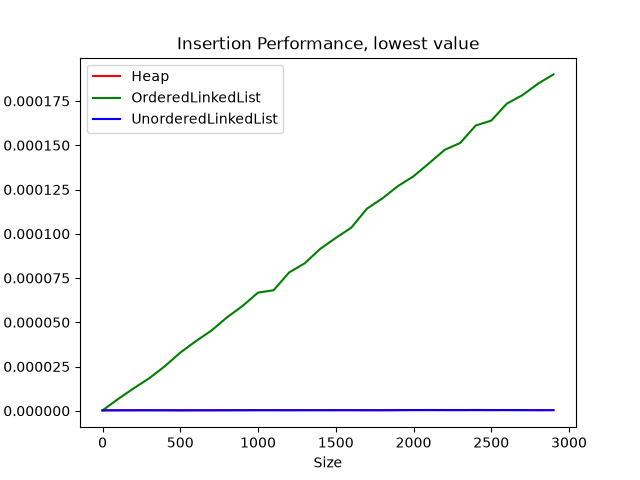
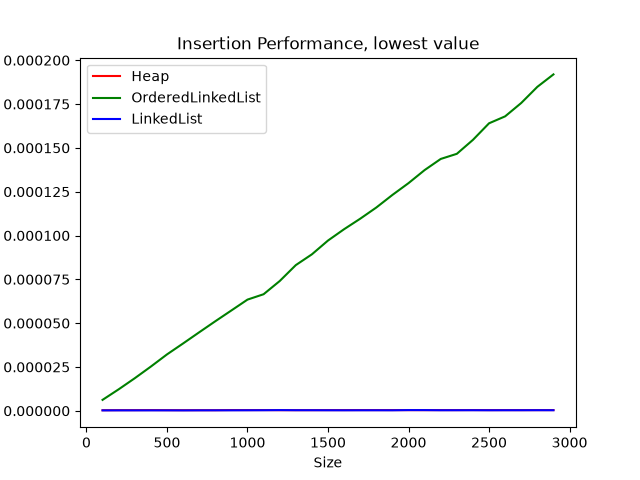
refactored insertion and remove_max test code

diff --git a/PicchioniEs1LabAlg.py b/PicchioniEs1LabAlg.py
@@ -377,30 +377,52 @@ class OrderedLinkedList:
         print(result)
 
 
-def measure_insert_time(data, step, elements, output, repeats, random_test, test_value):
-    for i in range(0, len(elements), step):
+def plot_graph(data_type, number_of_operation, time):
+    if data_type == 0:
+        label = "Heap"
+        color = "r"
+    elif data_type == 1:
+        label = "OrderedLinkedList"
+        color = "g"
+    else:
+        label = "LinkedList"
+        color = "b"
+    plt.plot(number_of_operation, time, color, label=label)
+    print("finished testing for " + label)
+
+
+def measure_insert_time(
+    data_type, number_of_operation, elements, time, repeats, random_test, test_value
+):
+    for i in number_of_operation:
         best = inf
         for _ in range(repeats):
-            test = data()
+            if data_type == 0:
+                prio_queue = Heap()
+            elif data_type == 1:
+                prio_queue = OrderedLinkedList()
+            else:
+                prio_queue = LinkedList()
             for e in elements[:i]:
-                test.insert(e)
+                prio_queue.insert(e)
+
             if random_test is True:
                 random_value = random.choice(range(test_value))
             else:
                 random_value = test_value
+
             start = timer()
-            test.insert(random_value)
+            prio_queue.insert(random_value)
             end = timer()
             best = min(best, end - start)
-        if i % 100 == 0:
-            print(i)
-        output.append(best)
+        time.append(best)
+    plot_graph(data_type, number_of_operation, time)
 
 
 def insert_test(test_type):
     number_of_elements = 3000
     step = 100
-    number_of_operation = range(0, number_of_elements, step)
+    number_of_operation = range(step, number_of_elements, step)
     interval_end = 3000
     number_of_repeats = 10
     inputs = random.choices(range(interval_end), k=number_of_elements)
@@ -423,83 +445,126 @@ def insert_test(test_type):
     else:
         print("testing insertion of a random value")
 
-    time = []
-    print("testing Heap")
-    measure_insert_time(
-        Heap, step, inputs, time, number_of_repeats, random_test, test_value
-    )
-    plt.plot(number_of_operation, time, "r", label="Heap")
-    print("finished testing Heap")
-
-    time = []
-    print("testing OrderedLinkedList")
-    measure_insert_time(
-        OrderedLinkedList,
-        step,
-        inputs,
-        time,
-        number_of_repeats,
-        random_test,
-        test_value,
-    )
-    plt.plot(number_of_operation, time, "g", label="OrderedLinkedList")
-    print("finished testing OrderedLinkedList")
-
-    time = []
-    print("testing LinkedList")
-    measure_insert_time(
-        LinkedList, step, inputs, time, number_of_repeats, random_test, test_value
-    )
-    plt.plot(number_of_operation, time, "b", label="UnorderedLinkedList")
+    for i in range(3):
+        time = []
+        measure_insert_time(
+            i,
+            number_of_operation,
+            inputs,
+            time,
+            number_of_repeats,
+            random_test,
+            test_value,
+        )
+    # print("testing Heap")
+    # measure_insert_time(
+    #     1, step, inputs, time, number_of_repeats, random_test, test_value
+    # )
+    # plt.plot(number_of_operation, time, "r", label="Heap")
+    # print("finished testing Heap")
+    #
+    # time = []
+    # print("testing OrderedLinkedList")
+    # measure_insert_time(
+    #     OrderedLinkedList,
+    #     step,
+    #     inputs,
+    #     time,
+    #     number_of_repeats,
+    #     random_test,
+    #     test_value,
+    # )
+    # plt.plot(number_of_operation, time, "g", label="OrderedLinkedList")
+    # print("finished testing OrderedLinkedList")
+    #
+    # time = []
+    # print("testing LinkedList")
+    # measure_insert_time(
+    #     LinkedList, step, inputs, time, number_of_repeats, random_test, test_value
+    # )
+    # plt.plot(number_of_operation, time, "b", label="UnorderedLinkedList")
     print("finished testing LinkedList")
     plt.title("Insertion Performance, " + test_type_string + " value")
     plt.xlabel("Size")
     plt.ylabel("time")
     plt.legend(loc="upper left")
     plt.savefig("insertion_performance_" + test_type_string + ".png")
-    # clears previous graph
     plt.clf()
+
+
+def remove_max_test(data_type):
+    number_of_elements = 3000
+    step = 100
+    number_of_operation = range(step, number_of_elements, step)
+    interval_end = 3000
+    number_of_repeats = 100
+    inputs = random.choices(range(interval_end), k=number_of_elements)
+
+    time = []
+    for k in number_of_operation:
+        best = inf
+        for _ in range(number_of_repeats):
+            if data_type == 0:
+                prio_queue = Heap()
+            elif data_type == 1:
+                prio_queue = OrderedLinkedList()
+            else:
+                prio_queue = LinkedList()
+            for _ in inputs[:k]:
+                prio_queue.insert(k)
+
+            start = timer()
+            prio_queue.remove_max()
+            end = timer()
+            best = min(best, end - start)
+        time.append(best)
+
+    plot_graph(data_type, number_of_operation, time)
+
+
+def increase_key_test(data_type):
+    number_of_elements = 3000
+    step = 100
+    number_of_operation = range(step, number_of_elements, step)
+    interval_end = 3000
+    number_of_repeats = 100
+    inputs = random.choices(range(interval_end), k=number_of_elements)
+    time = []
+
+    for k in number_of_operation:
+        best = inf
+        for _ in range(number_of_repeats):
+            prio_queue = Heap(inputs[:k])
+            start = timer()
+            for i in range(k):
+                value = prio_queue.get_value(i)
+                if value is None:
+                    value = 0
+                random_value = random.choice(range(value, interval_end))
+                prio_queue.increase_key(i, random_value)
+            end = timer()
+            best = min(best, end - start)
+        if k % 100 == 0:
+            print(k)
+        time.append(best)
+
+    plot_graph(data_type, time, number_of_operation)
 
 
 print("Testing Insertion cases")
 for i in range(3):
     insert_test(i)
 
+print("Testing Remove_Max")
+for i in range(3):
+    remove_max_test(i)
 
-# Generating random inputs
-
-
-# # Section for insert()
-# time = []
-# print("heap before")
-# measure_insert_time(Heap, step, inputs, time, number_of_repeats, interval_end)
-# plt.plot(number_of_operation, time, "r", label="Heap")
-# print("heap after")
-#
-# time = []
-# print("ord list before")
-# measure_insert_time(
-#     OrderedLinkedList, step, inputs, time, number_of_repeats, interval_end
-# )
-# plt.plot(number_of_operation, time, "g", label="OrderedLinkedList")
-# print("ord list after")
-#
-# time = []
-# print("linked list before")
-# measure_insert_time(LinkedList, step, inputs, time, number_of_repeats, interval_end)
-# plt.plot(number_of_operation, time, "b", label="UnorderedLinkedList")
-# print("linked list after")
-#
-#
-# plt.title("Insertion Performance")
-# plt.xlabel("Size")
-# plt.ylabel("time")
-# plt.legend(loc="upper left")
-# plt.savefig("insertion_performance.png")
-# # clears previous graph
-# plt.clf()
-#
-#
+plt.title("Remove_Max Performance")
+plt.xlabel("Size")
+plt.ylabel("time")
+plt.legend(loc="upper left")
+plt.savefig("remove_max_performance.png")
+plt.clf()
 # # TODO maybe remove this?
 # # Section to compare insert() in various cases for max_heap
 # time = []
@@ -523,125 +588,7 @@ for i in range(3):
 # plt.savefig("max_heap_performance.png")
 #
 # TODO make section for just searching for the max
-# Section for remove_max()
-# time = []
-# for k in range(0, len(inputs), 10):
-#     best = inf
-#     for _ in range(number_of_repeats):
-#         max_heap = Heap(inputs[:k])
-#         start = timer()
-#         for _ in range(k):
-#             max_heap.remove_max()
-#         end = timer()
-#         best = min(best, end - start)
-#     if k % 100 == 0:
-#         print(k)
-#     time.append(best)
-# plt.plot(number_of_operation, time, "r", label="Heap")
-#
-# time = []
-# for k in range(0, len(inputs), 10):
-#     best = inf
-#     for _ in range(number_of_repeats):
-#         linked_list = LinkedList()
-#         for i in inputs[:k]:
-#             linked_list.insert(k)
-#         start = timer()
-#         for _ in range(k):
-#             linked_list.remove_max()
-#         end = timer()
-#         best = min(best, end - start)
-#     if k % 100 == 0:
-#         print(k)
-#     time.append(best)
-# plt.plot(number_of_operation, time, "b", label="UnorderedLinkedList")
-#
-# time = []
-# for k in range(0, len(inputs), 10):
-#     best = inf
-#     for _ in range(number_of_repeats):
-#         ordered_linked_list = OrderedLinkedList()
-#         for i in inputs[:k]:
-#             ordered_linked_list.insert(k)
-#         start = timer()
-#         for _ in range(k):
-#             ordered_linked_list.remove_max()
-#         end = timer()
-#         best = min(best, end - start)
-#     if k % 100 == 0:
-#         print(k)
-#     time.append(best)
-# plt.plot(number_of_operation, time, "g", label="OrderedLinkedList")
-#
-# plt.title("Remove_Max Performance")
-# plt.xlabel("Size")
-# plt.ylabel("time")
-# plt.legend(loc="upper left")
-# plt.savefig("remove_max_performance.png")
-# # clears previous graph
-# plt.clf()
-#
-#
-# # FIXME change remove to remove based on index, and not value
-# ## Section for remove()
-# time = []
-# for k in range(0, len(inputs), 10):
-#     best = inf
-#     to_remove = random.sample(inputs[:k], k)
-#     for _ in range(number_of_repeats):
-#         max_heap = Heap(inputs[:k])
-#         start = timer()
-#         for i in range(k):
-#             max_heap.remove(to_remove[i])
-#         end = timer()
-#         best = min(best, end - start)
-#     if k % 100 == 0:
-#         print(k)
-#     time.append(best)
-# plt.plot(number_of_operation, time, "r", label="Heap")
-#
-# time = []
-# for k in range(0, len(inputs), 10):
-#     best = inf
-#     to_remove = random.sample(inputs[:k], k)
-#     for _ in range(number_of_repeats):
-#         linked_list = LinkedList()
-#         for input in inputs[:k]:
-#             linked_list.insert(input)
-#         start = timer()
-#         for i in range(k):
-#             linked_list.remove(to_remove[i])
-#         end = timer()
-#         best = min(best, end - start)
-#     if k % 100 == 0:
-#         print(k)
-#     time.append(best)
-# plt.plot(number_of_operation, time, "b", label="UnorderedLinkedList")
-#
-# time = []
-# for k in range(0, len(inputs), 10):
-#     best = inf
-#     to_remove = random.sample(inputs[:k], k)
-#     for _ in range(number_of_repeats):
-#         ordered_linked_list = OrderedLinkedList()
-#         for input in inputs[:k]:
-#             ordered_linked_list.insert(input)
-#         start = timer()
-#         for i in range(k):
-#             ordered_linked_list.remove(to_remove[i])
-#         end = timer()
-#         best = min(best, end - start)
-#     if k % 100 == 0:
-#         print(k)
-#     time.append(best)
-# plt.plot(number_of_operation, time, "g", label="OrderedLinkedList")
-#
-# plt.title("Remove Performance")
-# plt.xlabel("Size")
-# plt.ylabel("time")
-# plt.legend(loc="upper left")
-# plt.savefig("remove_performance.png")
-#
+
 # # FIXME make these loops into functions
 # # Section for increase_key()
 # time = []
